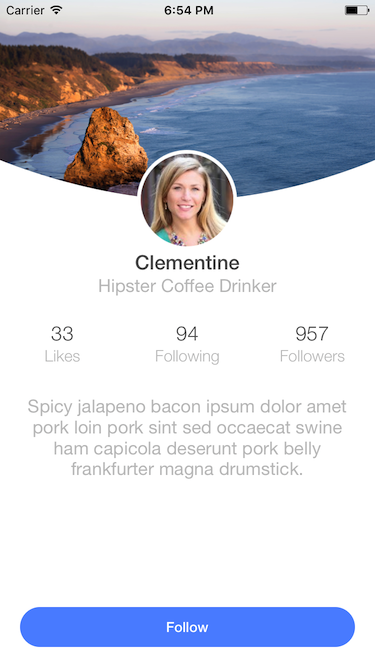
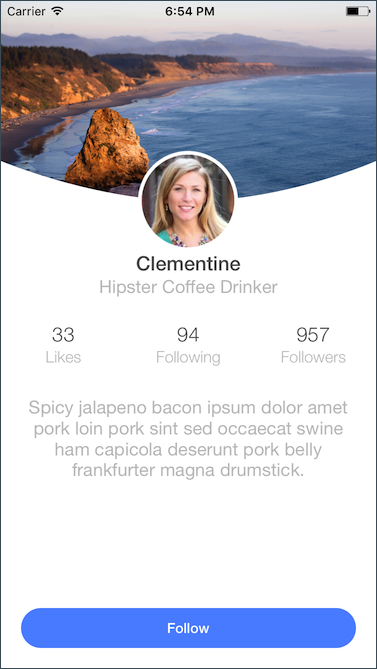
Screenshots

diff --git a/SocialNetwork/SocialNetwork/SocialNetwork/MainPage.xaml b/SocialNetwork/SocialNetwork/SocialNetwork/MainPage.xaml
@@ -17,7 +17,7 @@
 
 			<!-- header background -->
 			<Image Source="HeaderBackground.png" Aspect="AspectFill"/>
-			<Image Source="CurvedMask.png" VerticalOptions="End" Aspect="Fill"/>
+			<Image Source="CurvedMask.png" VerticalOptions="End" Aspect="AspectFill" Margin="0,0,0,-1"/>
 
 			<!-- profile image -->
 			<Image Source="ProfilePic.png" Margin="0,0,0,-50" HeightRequest="100" WidthRequest="100" HorizontalOptions="Center" VerticalOptions="End"/>
